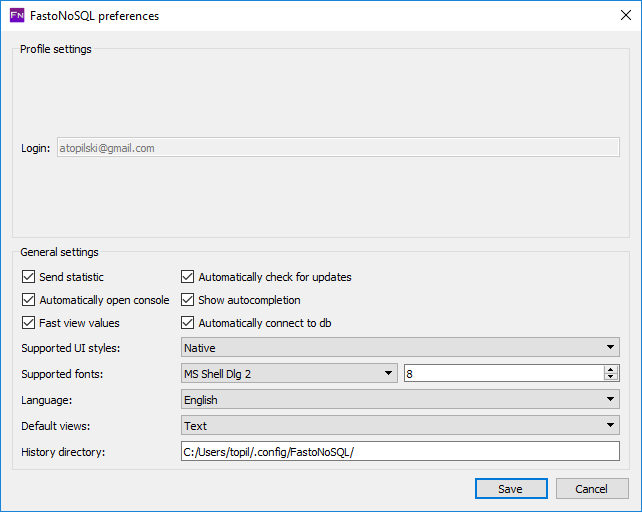
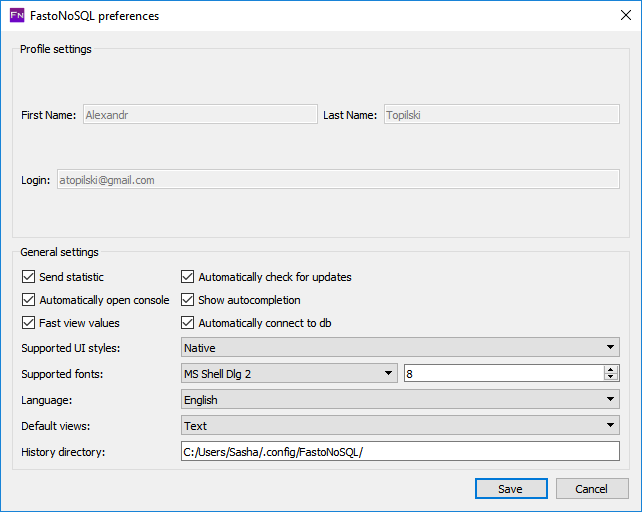
First/Last name

diff --git a/server.js b/server.js
@@ -148,7 +148,7 @@ listener.on('connection', function (socket) {
             }); //
 
             var rpc = new (require('./app/amqprpc'))(rabbit_connection);
-            var branding_variables = '-DIS_PUBLIC_BUILD=OFF -DUSER_SPECIFIC_LOGIN=' + in_json.email;
+            var branding_variables = '-DIS_PUBLIC_BUILD=OFF -DUSER_LOGIN=' + in_json.email + ' -DUSER_FIRST_NAME=' + in_json.first_name + ' -DUSER_LAST_NAME=' + in_json.last_name;
             for (var i = 0; i < app.locals.site.supported_databases.length; ++i) {
                 var sup_db = app.locals.site.supported_databases[i];
                 var found = false;
